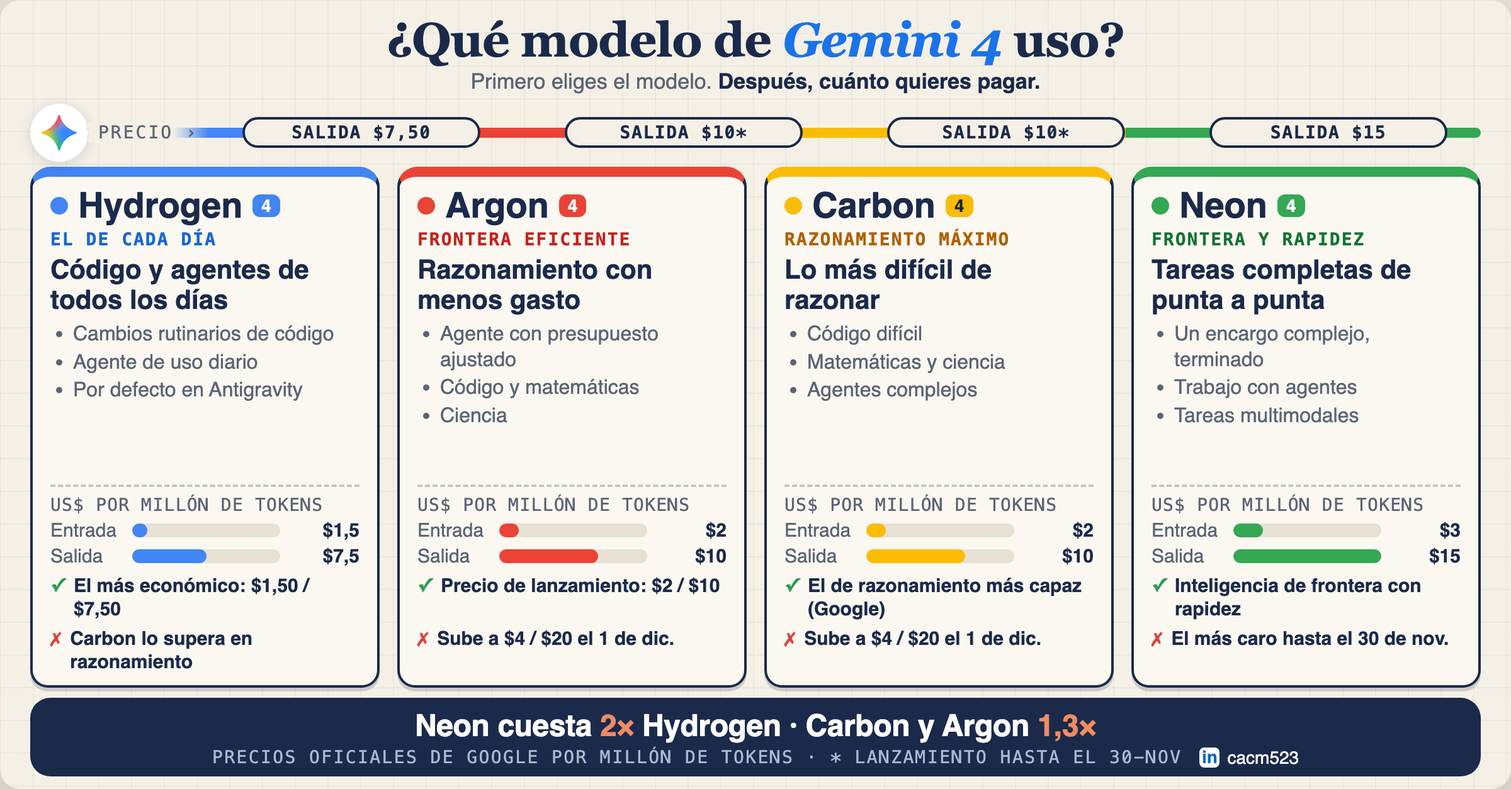
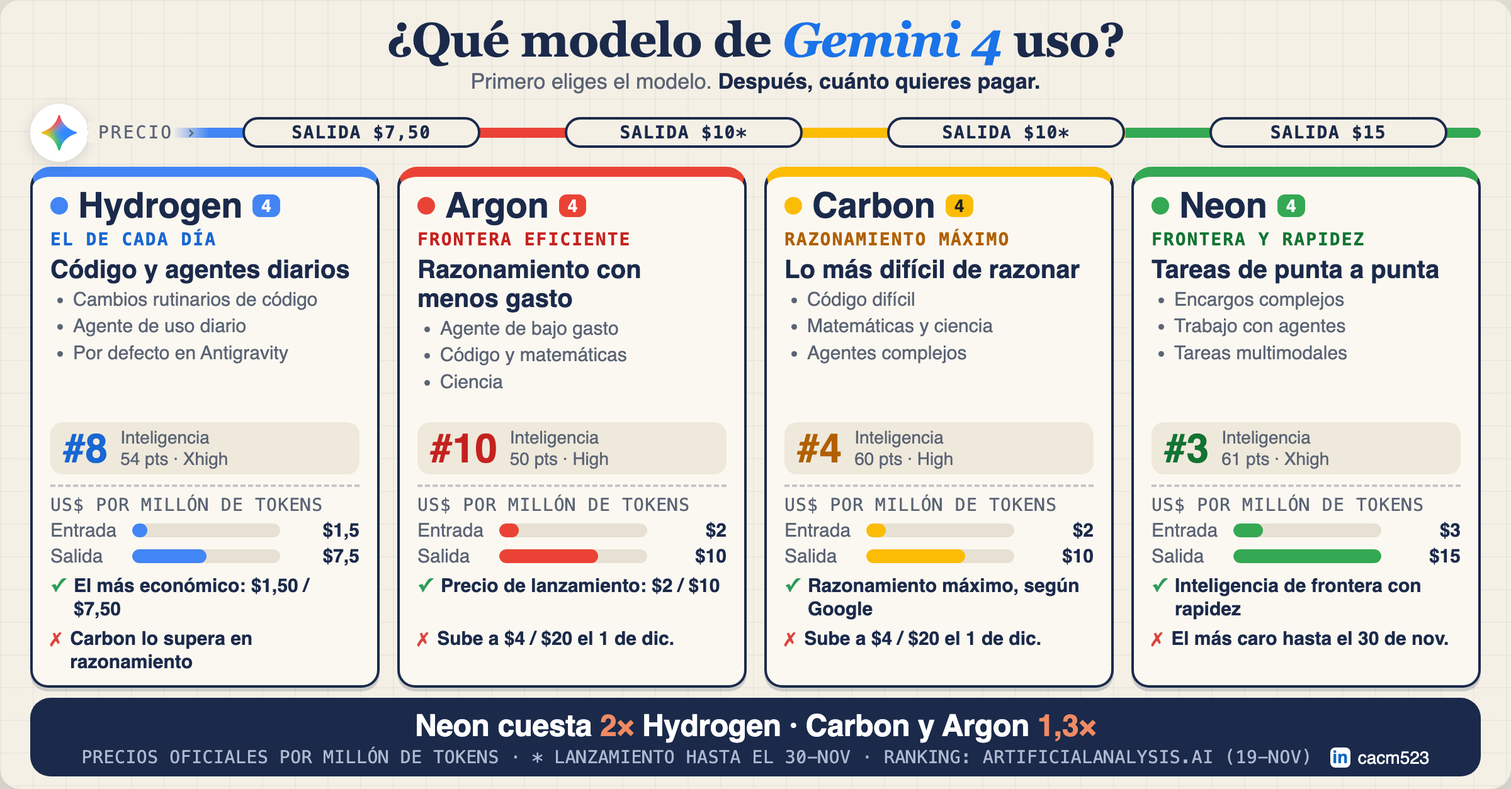
Modelos de IA: agrega puesto en el Intelligence Index de Artificial Analysis

diff --git a/Construidos/IA/modelos-gemini-4-actuales.html b/Construidos/IA/modelos-gemini-4-actuales.html
@@ -26,35 +26,40 @@ h1 em{color:var(--brand);font-style:italic}
 .nm i{width:14px;height:14px;border-radius:50%;background:var(--c);flex:none}
 .nm em{font-style:normal;font-size:14px;font-weight:800;color:var(--b);background:var(--c);border-radius:6px;padding:2px 7px}
 .tag{font-family:"SF Mono",Menlo,Consolas,monospace;font-size:14px;letter-spacing:1px;color:var(--t);font-weight:700;margin:5px 0 4px;text-transform:uppercase;line-height:1.15}
-h3{margin:0 0 4px;font-size:21px;line-height:1.15}
-ul{margin:0 0 6px;padding-left:18px;font-size:16px;line-height:1.28;color:var(--muted)}ul li{margin-bottom:2px}
+h3{margin:0 0 3px;font-size:20px;line-height:1.15}
+ul{margin:0 0 6px;padding-left:18px;font-size:15px;line-height:1.28;color:var(--muted)}ul li{margin-bottom:2px}
 .pro,.con{display:flex;gap:7px;font-size:15px;line-height:1.22;margin-top:4px;font-weight:600}
 .pro b{color:#2E9C5A}.con b{color:#D9433B}
 .pro{margin-top:6px;min-height:38px;align-items:flex-start}.con{min-height:38px;align-items:flex-start}
-.spec{margin-top:auto;border-top:2px dashed rgba(27,42,75,.25);padding-top:6px}.sl{font-family:"SF Mono",Menlo,Consolas,monospace;font-size:14px;letter-spacing:.6px;color:var(--muted);text-transform:uppercase;margin-bottom:3px}.br{display:flex;align-items:center;gap:7px;margin-top:3px;font-size:15px}.br span{width:58px;color:var(--muted);flex:none}.br i{flex:1;height:11px;background:#E7E1D4;border-radius:6px;overflow:hidden;display:block}.br u{display:block;height:100%;background:var(--c);border-radius:6px}.br b{width:56px;text-align:right;flex:none}
+.rk{margin-top:auto;display:flex;align-items:center;gap:10px;background:#EFE9DB;border-radius:10px;padding:4px 10px}.rk b{font-size:32px;line-height:1;color:var(--t);font-weight:800}.rk span{font-size:14px;line-height:1.2;color:var(--muted)}
+.spec{margin-top:8px;border-top:2px dashed rgba(27,42,75,.25);padding-top:6px}.sl{font-family:"SF Mono",Menlo,Consolas,monospace;font-size:14px;letter-spacing:.6px;color:var(--muted);text-transform:uppercase;margin-bottom:3px}.br{display:flex;align-items:center;gap:7px;margin-top:3px;font-size:15px}.br span{width:58px;color:var(--muted);flex:none}.br i{flex:1;height:11px;background:#E7E1D4;border-radius:6px;overflow:hidden;display:block}.br u{display:block;height:100%;background:var(--c);border-radius:6px}.br b{width:56px;text-align:right;flex:none}
 .ban{margin-top:8px;background:var(--navy);border-radius:16px;padding:8px 18px 7px;text-align:center;color:#fff}
 .ban p{margin:0;font-size:24px;font-weight:800;line-height:1.2;letter-spacing:-.2px}.ban p u{text-decoration:none;color:#F08A63}
-.ban small{display:flex;justify-content:center;align-items:center;gap:14px;font-family:"SF Mono",Menlo,Consolas,monospace;font-size:14px;letter-spacing:1.2px;color:#AEB8D0;text-transform:uppercase;margin-top:2px}
+.ban small{display:flex;justify-content:center;align-items:center;gap:14px;font-family:"SF Mono",Menlo,Consolas,monospace;font-size:14px;letter-spacing:.3px;color:#AEB8D0;text-transform:uppercase;margin-top:2px}
 .sig{display:inline-flex;align-items:center;gap:6px;color:#fff;letter-spacing:0;text-transform:none;font-family:Inter,sans-serif}.li{width:16px;height:16px;border-radius:4px;background:#fff;color:#0A66C2;display:inline-flex;align-items:center;justify-content:center;font-size:14px;font-weight:800;font-family:Arial,sans-serif}
 </style></head><body><div class="canvas-wrap"><div class="canvas">
 <div class="head"><h1>¿Qué modelo de <em>Gemini 4</em> uso?</h1><p class="sub">Primero eliges el modelo. <b>Después, cuánto quieres pagar.</b></p></div>
[1 lines of base64/hex data omitted]
 <div class="grid"><div class="col">
 <div class="card" style="--c:#4285F4;--t:#1967D2;--b:#fff"><div class="nm"><i></i>Hydrogen<em>4</em></div>
-<div class="tag">El de cada día</div><h3>Código y agentes de todos los días</h3><ul><li>Cambios rutinarios de código</li><li>Agente de uso diario</li><li>Por defecto en Antigravity</li></ul>
+<div class="tag">El de cada día</div><h3>Código y agentes diarios</h3><ul><li>Cambios rutinarios de código</li><li>Agente de uso diario</li><li>Por defecto en Antigravity</li></ul>
+<div class="rk"><b>#8</b><span>Inteligencia<br>54 pts · Xhigh</span></div>
 <div class="spec"><div class="sl">US$ por millón de tokens</div><div class="br"><span>Entrada</span><i><u style="width:10%"></u></i><b>$1,5</b></div><div class="br"><span>Salida</span><i><u style="width:50%"></u></i><b>$7,5</b></div></div>
 <div class="pro"><b>✓</b><span>El más económico: $1,50 / $7,50</span></div><div class="con"><b>✗</b><span>Carbon lo supera en razonamiento</span></div></div></div><div class="col">
 <div class="card" style="--c:#EA4335;--t:#C5221F;--b:#fff"><div class="nm"><i></i>Argon<em>4</em></div>
-<div class="tag">Frontera eficiente</div><h3>Razonamiento con menos gasto</h3><ul><li>Agente con presupuesto ajustado</li><li>Código y matemáticas</li><li>Ciencia</li></ul>
+<div class="tag">Frontera eficiente</div><h3>Razonamiento con menos gasto</h3><ul><li>Agente de bajo gasto</li><li>Código y matemáticas</li><li>Ciencia</li></ul>
+<div class="rk"><b>#10</b><span>Inteligencia<br>50 pts · High</span></div>
 <div class="spec"><div class="sl">US$ por millón de tokens</div><div class="br"><span>Entrada</span><i><u style="width:13%"></u></i><b>$2</b></div><div class="br"><span>Salida</span><i><u style="width:67%"></u></i><b>$10</b></div></div>
 <div class="pro"><b>✓</b><span>Precio de lanzamiento: $2 / $10</span></div><div class="con"><b>✗</b><span>Sube a $4 / $20 el 1 de dic.</span></div></div></div><div class="col">
 <div class="card" style="--c:#FBBC05;--t:#B06000;--b:#202124"><div class="nm"><i></i>Carbon<em>4</em></div>
 <div class="tag">Razonamiento máximo</div><h3>Lo más difícil de razonar</h3><ul><li>Código difícil</li><li>Matemáticas y ciencia</li><li>Agentes complejos</li></ul>
+<div class="rk"><b>#4</b><span>Inteligencia<br>60 pts · High</span></div>
 <div class="spec"><div class="sl">US$ por millón de tokens</div><div class="br"><span>Entrada</span><i><u style="width:13%"></u></i><b>$2</b></div><div class="br"><span>Salida</span><i><u style="width:67%"></u></i><b>$10</b></div></div>
-<div class="pro"><b>✓</b><span>El de razonamiento más capaz (Google)</span></div><div class="con"><b>✗</b><span>Sube a $4 / $20 el 1 de dic.</span></div></div></div><div class="col">
+<div class="pro"><b>✓</b><span>Razonamiento máximo, según Google</span></div><div class="con"><b>✗</b><span>Sube a $4 / $20 el 1 de dic.</span></div></div></div><div class="col">
 <div class="card" style="--c:#34A853;--t:#137333;--b:#fff"><div class="nm"><i></i>Neon<em>4</em></div>
-<div class="tag">Frontera y rapidez</div><h3>Tareas completas de punta a punta</h3><ul><li>Un encargo complejo, terminado</li><li>Trabajo con agentes</li><li>Tareas multimodales</li></ul>
+<div class="tag">Frontera y rapidez</div><h3>Tareas de punta a punta</h3><ul><li>Encargos complejos</li><li>Trabajo con agentes</li><li>Tareas multimodales</li></ul>
+<div class="rk"><b>#3</b><span>Inteligencia<br>61 pts · Xhigh</span></div>
 <div class="spec"><div class="sl">US$ por millón de tokens</div><div class="br"><span>Entrada</span><i><u style="width:20%"></u></i><b>$3</b></div><div class="br"><span>Salida</span><i><u style="width:100%"></u></i><b>$15</b></div></div>
 <div class="pro"><b>✓</b><span>Inteligencia de frontera con rapidez</span></div><div class="con"><b>✗</b><span>El más caro hasta el 30 de nov.</span></div></div></div></div>
-<div class="ban"><p>Neon cuesta <u>2×</u> Hydrogen · Carbon y Argon <u>1,3×</u></p><small><span>Precios oficiales de Google por millón de tokens · * lanzamiento hasta el 30-nov</span><span class="sig"><span class="li">in</span>cacm523</span></small></div>
+<div class="ban"><p>Neon cuesta <u>2×</u> Hydrogen · Carbon y Argon <u>1,3×</u></p><small><span>Precios oficiales por millón de tokens · * lanzamiento hasta el 30-nov · Ranking: artificialanalysis.ai (19-nov)</span><span class="sig"><span class="li">in</span>cacm523</span></small></div>
 </div></div></body></html>

diff --git a/Construidos/IA/modelos-claude-actuales.html b/Construidos/IA/modelos-claude-actuales.html
@@ -26,35 +26,40 @@ h1 em{color:var(--brand);font-style:italic}
 .nm i{width:14px;height:14px;border-radius:50%;background:var(--c);flex:none}
 .nm em{font-style:normal;font-size:14px;font-weight:800;color:var(--b);background:var(--c);border-radius:6px;padding:2px 7px}
 .tag{font-family:"SF Mono",Menlo,Consolas,monospace;font-size:14px;letter-spacing:1px;color:var(--t);font-weight:700;margin:5px 0 4px;text-transform:uppercase;line-height:1.15}
-h3{margin:0 0 4px;font-size:21px;line-height:1.15}
-ul{margin:0 0 6px;padding-left:18px;font-size:16px;line-height:1.28;color:var(--muted)}ul li{margin-bottom:2px}
+h3{margin:0 0 3px;font-size:20px;line-height:1.15}
+ul{margin:0 0 6px;padding-left:18px;font-size:15px;line-height:1.28;color:var(--muted)}ul li{margin-bottom:2px}
 .pro,.con{display:flex;gap:7px;font-size:15px;line-height:1.22;margin-top:4px;font-weight:600}
 .pro b{color:#2E9C5A}.con b{color:#D9433B}
 .pro{margin-top:6px;min-height:38px;align-items:flex-start}.con{min-height:38px;align-items:flex-start}
-.spec{margin-top:auto;border-top:2px dashed rgba(27,42,75,.25);padding-top:6px}.sl{font-family:"SF Mono",Menlo,Consolas,monospace;font-size:14px;letter-spacing:.6px;color:var(--muted);text-transform:uppercase;margin-bottom:3px}.br{display:flex;align-items:center;gap:7px;margin-top:3px;font-size:15px}.br span{width:58px;color:var(--muted);flex:none}.br i{flex:1;height:11px;background:#E7E1D4;border-radius:6px;overflow:hidden;display:block}.br u{display:block;height:100%;background:var(--c);border-radius:6px}.br b{width:56px;text-align:right;flex:none}
+.rk{margin-top:auto;display:flex;align-items:center;gap:10px;background:#EFE9DB;border-radius:10px;padding:4px 10px}.rk b{font-size:32px;line-height:1;color:var(--t);font-weight:800}.rk span{font-size:14px;line-height:1.2;color:var(--muted)}
+.spec{margin-top:8px;border-top:2px dashed rgba(27,42,75,.25);padding-top:6px}.sl{font-family:"SF Mono",Menlo,Consolas,monospace;font-size:14px;letter-spacing:.6px;color:var(--muted);text-transform:uppercase;margin-bottom:3px}.br{display:flex;align-items:center;gap:7px;margin-top:3px;font-size:15px}.br span{width:58px;color:var(--muted);flex:none}.br i{flex:1;height:11px;background:#E7E1D4;border-radius:6px;overflow:hidden;display:block}.br u{display:block;height:100%;background:var(--c);border-radius:6px}.br b{width:56px;text-align:right;flex:none}
 .ban{margin-top:8px;background:var(--navy);border-radius:16px;padding:8px 18px 7px;text-align:center;color:#fff}
 .ban p{margin:0;font-size:24px;font-weight:800;line-height:1.2;letter-spacing:-.2px}.ban p u{text-decoration:none;color:#F08A63}
-.ban small{display:flex;justify-content:center;align-items:center;gap:14px;font-family:"SF Mono",Menlo,Consolas,monospace;font-size:14px;letter-spacing:1.2px;color:#AEB8D0;text-transform:uppercase;margin-top:2px}
+.ban small{display:flex;justify-content:center;align-items:center;gap:14px;font-family:"SF Mono",Menlo,Consolas,monospace;font-size:14px;letter-spacing:.3px;color:#AEB8D0;text-transform:uppercase;margin-top:2px}
 .sig{display:inline-flex;align-items:center;gap:6px;color:#fff;letter-spacing:0;text-transform:none;font-family:Inter,sans-serif}.li{width:16px;height:16px;border-radius:4px;background:#fff;color:#0A66C2;display:inline-flex;align-items:center;justify-content:center;font-size:14px;font-weight:800;font-family:Arial,sans-serif}
 </style></head><body><div class="canvas-wrap"><div class="canvas">
 <div class="head"><h1>¿Qué modelo de <em>Claude</em> uso?</h1><p class="sub">Primero eliges el modelo. <b>Después, cuánto quieres pagar.</b></p></div>
[1 lines of base64/hex data omitted]
 <div class="grid"><div class="col">
 <div class="card" style="--c:#2E9C8A;--t:#2E9C8A;--b:#fff"><div class="nm"><i></i>Haiku<em>5.5</em></div>
-<div class="tag">El más rápido y económico</div><h3>Lo rápido y de volumen</h3><ul><li>Resumir cientos de correos</li><li>Repartir subtareas de un agente</li><li>Navegar y extraer datos</li></ul>
+<div class="tag">El más rápido y económico</div><h3>Lo rápido y de volumen</h3><ul><li>Resumir cientos de correos</li><li>Subtareas de un agente</li><li>Navegar y extraer datos</li></ul>
+<div class="rk"><b>#15</b><span>Inteligencia<br>36 pts · Max</span></div>
 <div class="spec"><div class="sl">US$ por millón de tokens</div><div class="br"><span>Entrada</span><i><u style="width:4%"></u></i><b>$0,10</b></div><div class="br"><span>Salida</span><i><u style="width:4%"></u></i><b>$0,50</b></div></div>
 <div class="pro"><b>✓</b><span>El más barato: $0,10 / $0,50</span></div><div class="con"><b>✗</b><span>El menos capaz de la familia</span></div></div></div><div class="col">
 <div class="card" style="--c:#3F6FD1;--t:#3F6FD1;--b:#fff"><div class="nm"><i></i>Sonnet<em>5.5</em></div>
 <div class="tag">El de todos los días</div><h3>El trabajo de cada día</h3><ul><li>Corregir un error</li><li>Redactar un documento</li><li>Armar una presentación</li></ul>
+<div class="rk"><b>#7</b><span>Inteligencia<br>55 pts · Max</span></div>
 <div class="spec"><div class="sl">US$ por millón de tokens</div><div class="br"><span>Entrada</span><i><u style="width:5%"></u></i><b>$2</b></div><div class="br"><span>Salida</span><i><u style="width:25%"></u></i><b>$10</b></div></div>
 <div class="pro"><b>✓</b><span>Más rápido y barato que Opus</span></div><div class="con"><b>✗</b><span>Menos capaz que Opus y Fable</span></div></div></div><div class="col">
 <div class="card" style="--c:#7B5CC9;--t:#7B5CC9;--b:#fff"><div class="nm"><i></i>Opus<em>5.5</em></div>
 <div class="tag">Agentes y código</div><h3>El trabajo pesado</h3><ul><li>Un agente que corrige un fallo</li><li>Revisar un repositorio</li><li>Trabajo del conocimiento</li></ul>
+<div class="rk"><b>#5</b><span>Inteligencia<br>59 pts · Max</span></div>
 <div class="spec"><div class="sl">US$ por millón de tokens</div><div class="br"><span>Entrada</span><i><u style="width:10%"></u></i><b>$4</b></div><div class="br"><span>Salida</span><i><u style="width:50%"></u></i><b>$20</b></div></div>
 <div class="pro"><b>✓</b><span>Opción por defecto de Anthropic</span></div><div class="con"><b>✗</b><span>Cuesta 2× Sonnet</span></div></div></div><div class="col">
 <div class="card" style="--c:#DB7A57;--t:#C4603C;--b:#fff"><div class="nm"><i></i>Fable<em>5.2</em></div>
-<div class="tag">El más capaz</div><h3>Lo más difícil y ambicioso</h3><ul><li>Migrar un sistema grande</li><li>Tareas abiertas de varios pasos</li><li>Trabajo técnico muy difícil</li></ul>
+<div class="tag">El más capaz</div><h3>Lo más difícil y ambicioso</h3><ul><li>Migrar un sistema grande</li><li>Tareas de varios pasos</li><li>Trabajo técnico muy difícil</li></ul>
+<div class="rk"><b>#1</b><span>Inteligencia<br>65 pts · Max</span></div>
 <div class="spec"><div class="sl">US$ por millón de tokens</div><div class="br"><span>Entrada</span><i><u style="width:20%"></u></i><b>$8</b></div><div class="br"><span>Salida</span><i><u style="width:100%"></u></i><b>$40</b></div></div>
 <div class="pro"><b>✓</b><span>El más capaz de los cuatro</span></div><div class="con"><b>✗</b><span>Cuesta 2× Opus</span></div></div></div></div>
-<div class="ban"><p>Fable cuesta <u>2×</u> Opus · Opus <u>2×</u> Sonnet · Haiku <u>20×</u> menos</p><small><span>Precios oficiales de Anthropic por millón de tokens · nov 2026</span><span class="sig"><span class="li">in</span>cacm523</span></small></div>
+<div class="ban"><p>Fable cuesta <u>2×</u> Opus · Opus <u>2×</u> Sonnet · Haiku <u>20×</u> menos</p><small><span>Precios oficiales por millón de tokens · Ranking: artificialanalysis.ai (19-nov-2026)</span><span class="sig"><span class="li">in</span>cacm523</span></small></div>
 </div></div></body></html>

diff --git a/Construidos/IA/modelos-gpt-6-actuales.html b/Construidos/IA/modelos-gpt-6-actuales.html
@@ -26,15 +26,16 @@ h1 em{color:var(--brand);font-style:italic}
 .nm i{width:14px;height:14px;border-radius:50%;background:var(--c);flex:none}
 .nm em{font-style:normal;font-size:14px;font-weight:800;color:var(--b);background:var(--c);border-radius:6px;padding:2px 7px}
 .tag{font-family:"SF Mono",Menlo,Consolas,monospace;font-size:14px;letter-spacing:1px;color:var(--t);font-weight:700;margin:5px 0 4px;text-transform:uppercase;line-height:1.15}
-h3{margin:0 0 4px;font-size:21px;line-height:1.15}
-ul{margin:0 0 6px;padding-left:18px;font-size:16px;line-height:1.28;color:var(--muted)}ul li{margin-bottom:2px}
+h3{margin:0 0 3px;font-size:20px;line-height:1.15}
+ul{margin:0 0 6px;padding-left:18px;font-size:15px;line-height:1.28;color:var(--muted)}ul li{margin-bottom:2px}
 .pro,.con{display:flex;gap:7px;font-size:15px;line-height:1.22;margin-top:4px;font-weight:600}
 .pro b{color:#2E9C5A}.con b{color:#D9433B}
 .pro{margin-top:6px;min-height:38px;align-items:flex-start}.con{min-height:38px;align-items:flex-start}
-.spec{margin-top:auto;border-top:2px dashed rgba(27,42,75,.25);padding-top:6px}.sl{font-family:"SF Mono",Menlo,Consolas,monospace;font-size:14px;letter-spacing:.6px;color:var(--muted);text-transform:uppercase;margin-bottom:3px}.br{display:flex;align-items:center;gap:7px;margin-top:3px;font-size:15px}.br span{width:58px;color:var(--muted);flex:none}.br i{flex:1;height:11px;background:#E7E1D4;border-radius:6px;overflow:hidden;display:block}.br u{display:block;height:100%;background:var(--c);border-radius:6px}.br b{width:56px;text-align:right;flex:none}
+.rk{margin-top:auto;display:flex;align-items:center;gap:10px;background:#EFE9DB;border-radius:10px;padding:4px 10px}.rk b{font-size:32px;line-height:1;color:var(--t);font-weight:800}.rk span{font-size:14px;line-height:1.2;color:var(--muted)}
+.spec{margin-top:8px;border-top:2px dashed rgba(27,42,75,.25);padding-top:6px}.sl{font-family:"SF Mono",Menlo,Consolas,monospace;font-size:14px;letter-spacing:.6px;color:var(--muted);text-transform:uppercase;margin-bottom:3px}.br{display:flex;align-items:center;gap:7px;margin-top:3px;font-size:15px}.br span{width:58px;color:var(--muted);flex:none}.br i{flex:1;height:11px;background:#E7E1D4;border-radius:6px;overflow:hidden;display:block}.br u{display:block;height:100%;background:var(--c);border-radius:6px}.br b{width:56px;text-align:right;flex:none}
 .ban{margin-top:8px;background:var(--navy);border-radius:16px;padding:8px 18px 7px;text-align:center;color:#fff}
 .ban p{margin:0;font-size:24px;font-weight:800;line-height:1.2;letter-spacing:-.2px}.ban p u{text-decoration:none;color:#F08A63}
-.ban small{display:flex;justify-content:center;align-items:center;gap:14px;font-family:"SF Mono",Menlo,Consolas,monospace;font-size:14px;letter-spacing:1.2px;color:#AEB8D0;text-transform:uppercase;margin-top:2px}
+.ban small{display:flex;justify-content:center;align-items:center;gap:14px;font-family:"SF Mono",Menlo,Consolas,monospace;font-size:14px;letter-spacing:.3px;color:#AEB8D0;text-transform:uppercase;margin-top:2px}
 .sig{display:inline-flex;align-items:center;gap:6px;color:#fff;letter-spacing:0;text-transform:none;font-family:Inter,sans-serif}.li{width:16px;height:16px;border-radius:4px;background:#fff;color:#0A66C2;display:inline-flex;align-items:center;justify-content:center;font-size:14px;font-weight:800;font-family:Arial,sans-serif}
 </style></head><body><div class="canvas-wrap"><div class="canvas">
 <div class="head"><h1>¿Qué modelo de <em>GPT-6</em> uso?</h1><p class="sub">Primero eliges el modelo. <b>Después, cuánto quieres pagar.</b></p></div>
@@ -42,19 +43,23 @@ ul{margin:0 0 6px;padding-left:18px;font-size:16px;line-height:1.28;color:var(--
 <div class="grid"><div class="col">
 <div class="card" style="--c:#10A37F;--t:#0B7A5E;--b:#fff"><div class="nm"><i></i>Luna<em>6</em></div>
 <div class="tag">El más eficiente</div><h3>Lo enfocado y de volumen</h3><ul><li>Clasificar tickets de soporte</li><li>Extraer campos de documentos</li><li>Etiquetar contenido</li></ul>
+<div class="rk"><b>#28</b><span>Inteligencia<br>28 pts · Max</span></div>
 <div class="spec"><div class="sl">US$ por millón de tokens</div><div class="br"><span>Entrada</span><i><u style="width:4%"></u></i><b>$0,10</b></div><div class="br"><span>Salida</span><i><u style="width:4%"></u></i><b>$0,50</b></div></div>
 <div class="pro"><b>✓</b><span>El más barato: $0,10 / $0,50</span></div><div class="con"><b>✗</b><span>El menos capaz de la familia</span></div></div></div><div class="col">
 <div class="card" style="--c:#0B5E4B;--t:#0B5E4B;--b:#fff"><div class="nm"><i></i>Terra<em>6.1</em></div>
 <div class="tag">Rápido y preciso</div><h3>Visión y precisión</h3><ul><li>Emparejar fotos con el catálogo</li><li>Interpretar planos técnicos</li><li>Operar una pantalla</li></ul>
+<div class="rk"><b>#9</b><span>Inteligencia<br>51 pts · Max</span></div>
 <div class="spec"><div class="sl">US$ por millón de tokens</div><div class="br"><span>Entrada</span><i><u style="width:4%"></u></i><b>$1</b></div><div class="br"><span>Salida</span><i><u style="width:12%"></u></i><b>$5</b></div></div>
 <div class="pro"><b>✓</b><span>Razonamiento visual y escritura natural</span></div><div class="con"><b>✗</b><span>Menos capaz que Sol y Astra</span></div></div></div><div class="col">
 <div class="card" style="--c:#202123;--t:#202123;--b:#fff"><div class="nm"><i></i>Sol<em>6.2</em></div>
 <div class="tag">El de todos los días</div><h3>Trabajo diario y agentes</h3><ul><li>Un asistente interno</li><li>Programar a diario</li><li>Agentes con herramientas</li></ul>
+<div class="rk"><b>#6</b><span>Inteligencia<br>57 pts · Max</span></div>
 <div class="spec"><div class="sl">US$ por millón de tokens</div><div class="br"><span>Entrada</span><i><u style="width:5%"></u></i><b>$2</b></div><div class="br"><span>Salida</span><i><u style="width:25%"></u></i><b>$10</b></div></div>
 <div class="pro"><b>✓</b><span>Buen equilibrio capacidad-precio</span></div><div class="con"><b>✗</b><span>Cuesta 2× Terra</span></div></div></div><div class="col">
 <div class="card" style="--c:#7FD8C1;--t:#0B7A5E;--b:#0B2E26"><div class="nm"><i></i>Astra<em>6.2</em></div>
 <div class="tag">El más capaz</div><h3>Los proyectos más difíciles</h3><ul><li>Revisar un repositorio grande</li><li>Usar el computador</li><li>Trabajar con documentos</li></ul>
+<div class="rk"><b>#2</b><span>Inteligencia<br>62 pts · Max</span></div>
 <div class="spec"><div class="sl">US$ por millón de tokens</div><div class="br"><span>Entrada</span><i><u style="width:20%"></u></i><b>$8</b></div><div class="br"><span>Salida</span><i><u style="width:100%"></u></i><b>$40</b></div></div>
 <div class="pro"><b>✓</b><span>El más capaz de los cuatro</span></div><div class="con"><b>✗</b><span>Cuesta 4× Sol</span></div></div></div></div>
-<div class="ban"><p>Astra cuesta <u>4×</u> Sol · Sol <u>2×</u> Terra · Luna <u>10×</u> menos</p><small><span>Precios oficiales de OpenAI por millón de tokens · nov 2026</span><span class="sig"><span class="li">in</span>cacm523</span></small></div>
+<div class="ban"><p>Astra cuesta <u>4×</u> Sol · Sol <u>2×</u> Terra · Luna <u>10×</u> menos</p><small><span>Precios oficiales por millón de tokens · Ranking: artificialanalysis.ai (19-nov-2026)</span><span class="sig"><span class="li">in</span>cacm523</span></small></div>
 </div></div></body></html>

diff --git a/Construidos/IA/modelos-claude-actuales.prompt.md b/Construidos/IA/modelos-claude-actuales.prompt.md
@@ -23,3 +23,7 @@ Por pedido del usuario, la pieza replica el estilo de una referencia (infografí
 - **Eje = precio de salida** (no «esfuerzo»): es el único criterio verificable y no obliga a rankear modelos cuando las fuentes se contradicen.
 - ✓/✗ y múltiplos («2×», «20×») se derivan solo de precios y descripciones oficiales; los ejemplos de tarea son ilustrativos.
 - Colores: Claude (referencia), GPT-6 (verdes y negro de ChatGPT), Gemini (azul, rojo, amarillo y verde de Google).
+
+## Ranking de inteligencia (2026-11-19)
+
+Pedido del usuario: ubicar cada modelo en el ranking de https://artificialanalysis.ai/. Se usó la tabla de https://artificialanalysis.ai/leaderboards/models (Artificial Analysis Intelligence Index v5.0.1, consultada el 2026-11-19): puesto = posición en la tabla, puntaje y configuración de razonamiento tal como los lista el sitio (Max; Gemini: High/Xhigh). El sitio no muestra fecha de corte ni un total consistente de modelos, por eso no se cita «de N». Dato notable: el índice pone a Gemini 4 Neon (#3) por encima de Carbon (#4), contrario a la descripción de Google; la pieza lo dice explícitamente.

diff --git a/Construidos/IA/modelos-gemini-4-actuales.prompt.md b/Construidos/IA/modelos-gemini-4-actuales.prompt.md
@@ -23,3 +23,7 @@ Por pedido del usuario, la pieza replica el estilo de una referencia (infografí
 - **Eje = precio de salida** (no «esfuerzo»): es el único criterio verificable y no obliga a rankear modelos cuando las fuentes se contradicen.
 - ✓/✗ y múltiplos («2×», «20×») se derivan solo de precios y descripciones oficiales; los ejemplos de tarea son ilustrativos.
 - Colores: Claude (referencia), GPT-6 (verdes y negro de ChatGPT), Gemini (azul, rojo, amarillo y verde de Google).
+
+## Ranking de inteligencia (2026-11-19)
+
+Pedido del usuario: ubicar cada modelo en el ranking de https://artificialanalysis.ai/. Se usó la tabla de https://artificialanalysis.ai/leaderboards/models (Artificial Analysis Intelligence Index v5.0.1, consultada el 2026-11-19): puesto = posición en la tabla, puntaje y configuración de razonamiento tal como los lista el sitio (Max; Gemini: High/Xhigh). El sitio no muestra fecha de corte ni un total consistente de modelos, por eso no se cita «de N». Dato notable: el índice pone a Gemini 4 Neon (#3) por encima de Carbon (#4), contrario a la descripción de Google; la pieza lo dice explícitamente.

diff --git a/Construidos/IA/modelos-gpt-6-actuales.prompt.md b/Construidos/IA/modelos-gpt-6-actuales.prompt.md
@@ -23,3 +23,7 @@ Por pedido del usuario, la pieza replica el estilo de una referencia (infografí
 - **Eje = precio de salida** (no «esfuerzo»): es el único criterio verificable y no obliga a rankear modelos cuando las fuentes se contradicen.
 - ✓/✗ y múltiplos («2×», «20×») se derivan solo de precios y descripciones oficiales; los ejemplos de tarea son ilustrativos.
 - Colores: Claude (referencia), GPT-6 (verdes y negro de ChatGPT), Gemini (azul, rojo, amarillo y verde de Google).
+
+## Ranking de inteligencia (2026-11-19)
+
+Pedido del usuario: ubicar cada modelo en el ranking de https://artificialanalysis.ai/. Se usó la tabla de https://artificialanalysis.ai/leaderboards/models (Artificial Analysis Intelligence Index v5.0.1, consultada el 2026-11-19): puesto = posición en la tabla, puntaje y configuración de razonamiento tal como los lista el sitio (Max; Gemini: High/Xhigh). El sitio no muestra fecha de corte ni un total consistente de modelos, por eso no se cita «de N». Dato notable: el índice pone a Gemini 4 Neon (#3) por encima de Carbon (#4), contrario a la descripción de Google; la pieza lo dice explícitamente.
